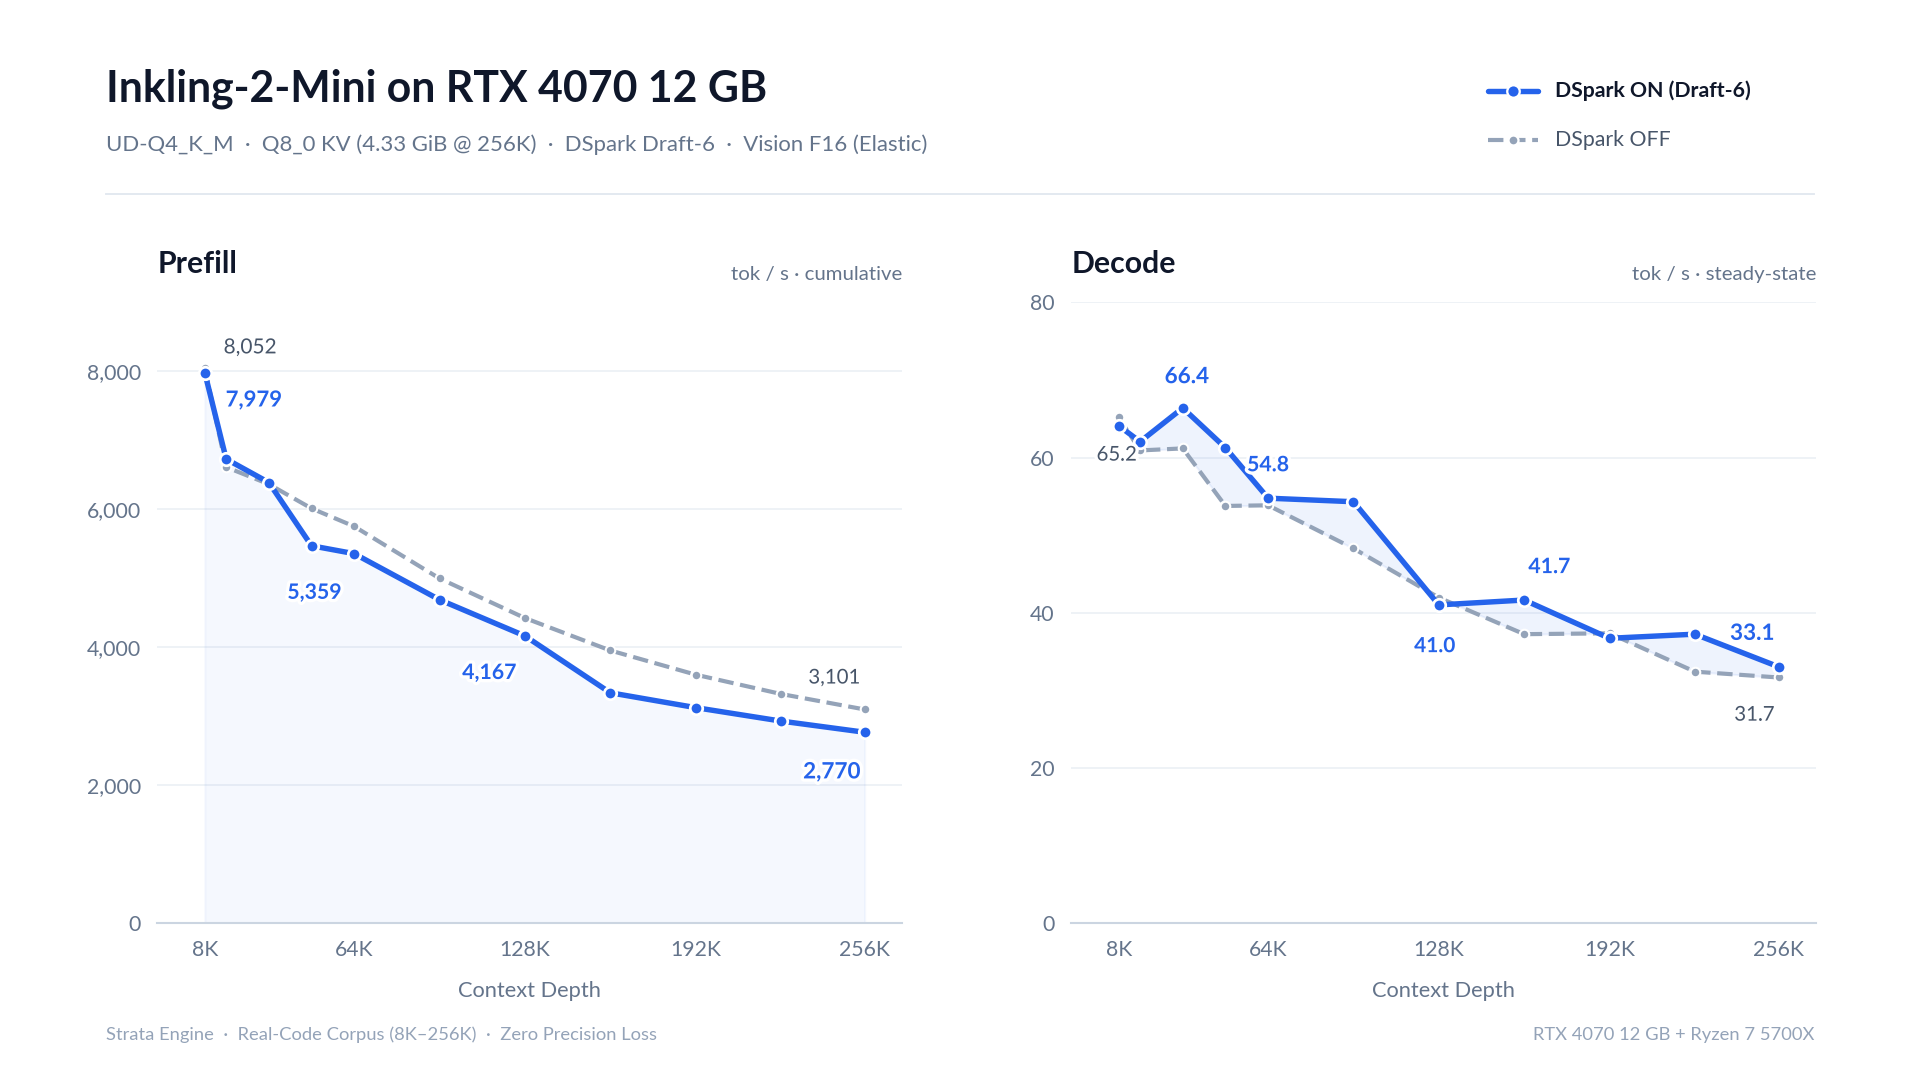
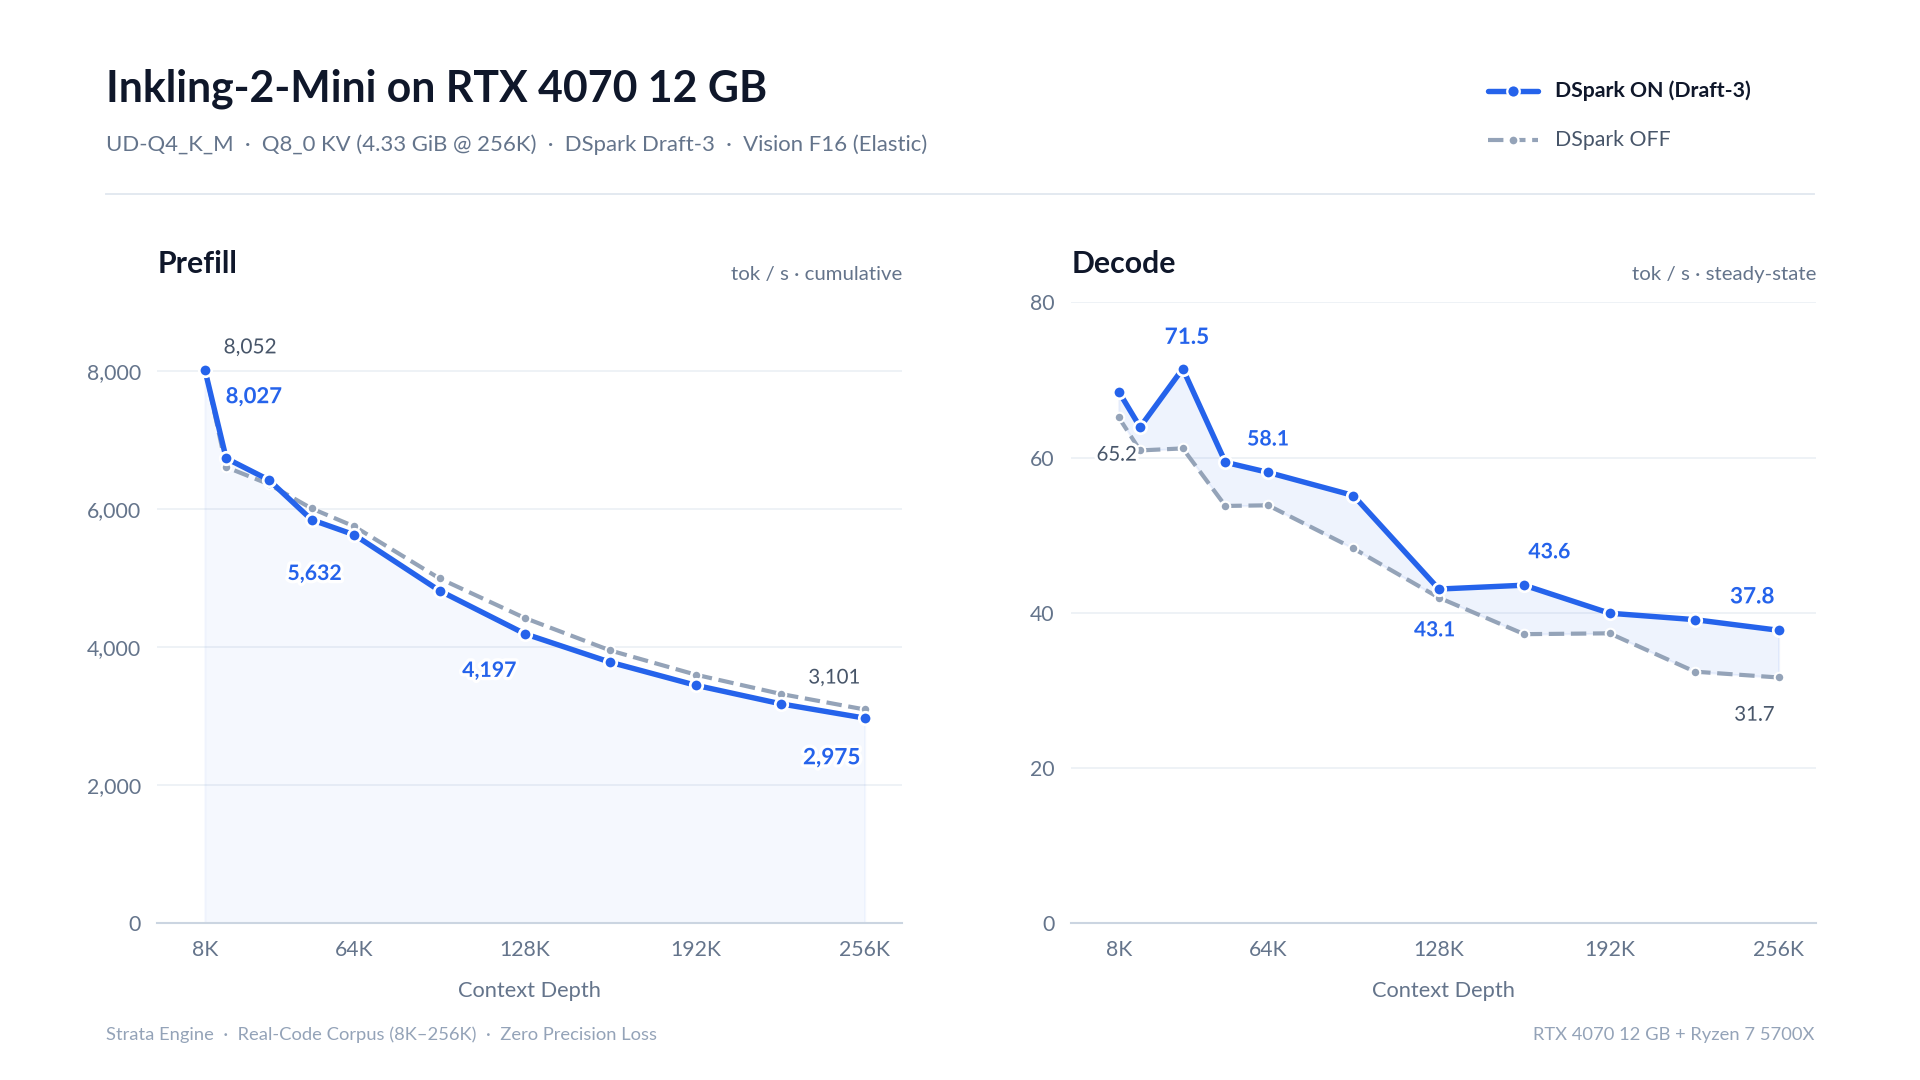
inkling2: gate sparse_hblobs on allow_core_spill & allow prebuild_tier1_hblobs (Draft-3 262K 8,027->2,975 PP / 71.5->37.8 Dec)

diff --git a/README.md b/README.md
@@ -23,8 +23,8 @@ It runs **65K–262K** context on a single **12 GB consumer GPU (RTX 4070)** and
 
 - **Zero-knob automatic tuning (`SM arch × VRAM regime`)** — Choose `--max-context` (and optionally `--draft` for DSpark). The engine inspects the GPU architecture and live free VRAM to select the verified chunk size, KV allocation policy, staging budget, FA2 split-K width, and CUDA Graph mode via [profile_rules.hpp](engine/include/strata/inkling2/profile_rules.hpp).
 - **Zero quantization / precision compromises** — Native `UD-Q4_K_M` weights and `Q8` KV cache (`--kv-q8`), verified for `64/64` greedy token parity across optimization rounds.
-- **Decode Frequency-Prior & Cross-Layer Knapsack Expert Caching** — Seeds VRAM expert slots from measured decode routing frequencies ([inkling2_expert_prior.cuh](engine/src/inkling2/inkling2_expert_prior.cuh)), applies Bayesian eviction/rebalancing during decode, and runs a Phase-Decode Cross-Layer Knapsack (`Core=128` + Outer knapsack at `65K–128K`, global 24-layer knapsack at `160K–256K`), lifting RTX 4070 `262K` decode to **`64.7–68.1 t/s`** (`8K–16K`), **`60.5 t/s`** (`64K`), **`48.2 t/s`** (`160K`), **`42.3 t/s`** (`192K`), and **`36.4–40.2 t/s`** (`256K` ON, **`31.7 t/s`** OFF).
-- **High-K (`--draft-max 6`) Optimization & Low Host RAM Footprint** — Single-pass `Q5_K+Q8_0` AVX2 (`nt=5..8`), balanced 8-thread remainder splits, `MADV_DONTNEED` raw mmap trimming with full-speed pinned PCIe DMA + `16 MiB` double-buffered staging fallback (`copy_h2d_staged`), Verify CUDA Graph capture up to `T<=9`, and confidence-gated extension (`base_k=3`, `tau_ext=0.78`, `tau_cum_ext=0.58`) lift `262K` sampling avg to **`80.8 t/s`** (`dm=3`, prose **`84.6 t/s`**, Japanese **`73.9 t/s`**) and **`74.6 t/s`** (`dm=6`, `+12.5%` vs `66.3 t/s` before), keep `262K` `8K` prefill at **`7,979 t/s`**, and cut peak host RSS by **`-51% to -54%` at `262K`** (`25.3–27.0 → 12.2 GiB`) and **`-57%` at `65K`** (`~26.5 → 11.0 GiB`).
+- **Decode Frequency-Prior & Cross-Layer Knapsack Expert Caching** — Seeds VRAM expert slots from measured decode routing frequencies ([inkling2_expert_prior.cuh](engine/src/inkling2/inkling2_expert_prior.cuh)), applies Bayesian eviction/rebalancing during decode, and runs a Phase-Decode Cross-Layer Knapsack (`Core=128` + Outer knapsack at `65K–128K`, global 24-layer knapsack at `160K–256K`), lifting RTX 4070 `262K` decode to **`68.5–71.5 t/s`** (`8K–32K`), **`58.1 t/s`** (`64K`), **`55.1 t/s`** (`96K`), **`43.6 t/s`** (`160K`), **`40.0 t/s`** (`192K`), and **`37.8 t/s`** (`256K` ON, **`31.7 t/s`** OFF).
+- **Host RAM Reduction (-51% to -57% RSS) & High-K Tailing** — `MADV_DONTNEED` raw mmap trimming with full-speed pinned PCIe DMA + `16 MiB` double-buffered staging fallback (`copy_h2d_staged`), Verify CUDA Graph capture up to `T<=9`, single-pass `Q5_K+Q8_0` AVX2 (`nt=5..8`), and balanced 8-thread remainder splits lift `262K` `Draft-3` sampling avg to **`80.8 t/s`** (prose **`84.6 t/s`**, Japanese **`73.9 t/s`**) and `256K` ladder decode to **`37.8 t/s`** (`2,975 t/s` cumulative prefill), while cutting peak host RSS by **`-51% to -54%` at `262K`** (`25.3–27.0 → 12.2 GiB`) and **`-57%` at `65K`** (`~26.5 → 11.0 GiB`).
 - **Distribution-Preserving Sampling DSpark + 1-Hot PLD** — Deterministic-peak sampling confidence gating (`draft_sampled_confident`) and exact rejection-sampled 1-hot suffix drafting (`PromptSuffixDrafter`) preserve `temperature=1.0` sampling distributions while eliminating Japanese regressions (`65K` sampling: **`68.5–72.9 t/s`** OFF → **`74.6–88.4 t/s`** ON on RTX 4070; **`92.5–93.6 t/s`** OFF → **`104.3–137.6 t/s`** ON on V100 32 GB).
 - **Fast on both 12 GB hybrid and 32 GB full-VRAM GPUs** — On RTX 4070 12 GB, a single `--max-context 262144` run on real C++/CUDA code reaches **`8,052 t/s` prefill** (`3,101 t/s` cumulative @ `256K` DSpark OFF; `7,874 t/s` warm / `8,010 t/s` cool @ `8K`, `2,935 t/s` @ `256K` DSpark ON). On V100 32 GB (GPU 0, ECC Off), all 3,072 experts fit in VRAM up to `819K` with DSpark (`135–167 t/s` decode at `64K–256K`, `109.5 t/s` at `512K`, `89.9 t/s` at `800K`, `192.8 t/s` at `512`).
 - **Drop-in OpenAI & Anthropic API** — Works directly with Claude Code, Codex CLI, OpenCode, and other local coding agents, plus upstream Strata's Qwen3.8-Flash-Next and Qwen3.6-35B-A3B engines.
@@ -57,21 +57,21 @@ Apples-to-apples real tokenized C++/CUDA code context ladder (`--max-context 262
 
 | Context Depth | DSpark ON (`--draft-max 3`) Prefill | DSpark ON Decode | DSpark OFF Prefill | DSpark OFF Decode | GPU Hit (ON / OFF) |
 | ---: | ---: | ---: | ---: | ---: | ---: |
-| `8K` (fresh) | `7,874.3 t/s`¹ | `64.7 t/s` | **`8,051.9 t/s`** | **`65.2 t/s`** | `86.1%` / `86.3%` |
-| `16K` | `6,557.3 t/s` | **`68.1 t/s`** | **`6,612.9 t/s`** | `60.9 t/s` | `86.1%` / `86.4%` |
-| `32K` | `6,276.0 t/s` | `58.1 t/s` | **`6,365.5 t/s`** | **`61.2 t/s`** | `86.0%` / `86.3%` |
-| `48K` | `5,587.6 t/s` | **`56.3 t/s`** | **`6,014.0 t/s`** | `53.8 t/s` | `86.4%` / `86.2%` |
-| `64K` | `5,424.3 t/s` | **`60.5 t/s`** | **`5,753.5 t/s`** | `53.9 t/s` | `86.2%` / `86.2%` |
-| `96K` | `4,694.8 t/s` | **`53.8 t/s`** | **`4,999.2 t/s`** | `48.3 t/s` | `87.1%` / `86.0%` |
-| `128K` | `4,116.0 t/s` | **`43.5 t/s`** | **`4,425.7 t/s`** | `42.0 t/s` | `84.8%` / `85.9%` |
-| `160K` | `3,716.1 t/s` | **`48.2 t/s`** | **`3,955.5 t/s`** | `37.3 t/s` | `77.0%` / `84.7%` |
-| `192K` | `3,396.2 t/s` | **`42.3 t/s`** | **`3,605.1 t/s`** | `37.4 t/s` | `71.6%` / `76.6%` |
-| `224K` | `3,135.4 t/s` | **`35.4 t/s`** | **`3,325.1 t/s`** | `32.4 t/s` | `62.3%` / `71.2%` |
-| `256K` (`261.5K`) | `2,934.6 t/s` | **`36.4 t/s`** | **`3,100.6 t/s`** | `31.7 t/s` | `62.4%` / `71.4%` |
+| `8K` (fresh) | `8,027.1 t/s` | **`68.5 t/s`** | **`8,051.9 t/s`** | `65.2 t/s` | `86.1%` / `86.3%` |
+| `16K` | **`6,740.7 t/s`** | **`63.9 t/s`** | `6,612.9 t/s` | `60.9 t/s` | `86.2%` / `86.4%` |
+| `32K` | **`6,427.2 t/s`** | **`71.5 t/s`** | `6,365.5 t/s` | `61.2 t/s` | `86.1%` / `86.3%` |
+| `48K` | `5,850.6 t/s` | **`59.4 t/s`** | **`6,014.0 t/s`** | `53.8 t/s` | `86.4%` / `86.2%` |
+| `64K` | `5,632.1 t/s` | **`58.1 t/s`** | **`5,753.5 t/s`** | `53.9 t/s` | `86.6%` / `86.2%` |
+| `96K` | `4,821.6 t/s` | **`55.1 t/s`** | **`4,999.2 t/s`** | `48.3 t/s` | `87.2%` / `86.0%` |
+| `128K` | `4,197.1 t/s` | **`43.1 t/s`** | **`4,425.7 t/s`** | `42.0 t/s` | `84.8%` / `85.9%` |
+| `160K` | `3,784.9 t/s` | **`43.6 t/s`** | **`3,955.5 t/s`** | `37.3 t/s` | `77.2%` / `84.7%` |
+| `192K` | `3,451.7 t/s` | **`40.0 t/s`** | **`3,605.1 t/s`** | `37.4 t/s` | `73.2%` / `76.6%` |
+| `224K` | `3,181.9 t/s` | **`39.1 t/s`** | **`3,325.1 t/s`** | `32.4 t/s` | `64.6%` / `71.2%` |
+| `256K` (`261.5K`) | `2,975.4 t/s` | **`37.8 t/s`** | **`3,100.6 t/s`** | `31.7 t/s` | `66.9%` / `71.4%` |
 
-<p><sub>¹ Cool single-turn <code>8K</code> DSpark ON prefill also measures <code>8,009.5 t/s</code> (<code>7,874.3 t/s</code> shown above is the warm back-to-back ladder run).</sub></p>
+<p><sub>Measured on current <code>main</code> after host-pinning and <code>MADV_DONTNEED</code> optimizations (<code>prebuild_tier1_hblobs</code> enabled).</sub></p>
 
-> **Why RTX 4070 `262K` now pushes `68.1 t/s` at `16K`, `60.5 t/s` at `64K`, `48.2 t/s` at `160K`, and `36.4 t/s` at `256K` while Prefill hits `8,052 t/s` at `8K` and `3,101 t/s` at `256K`**: Combining Static Decode Frequency Prior ([inkling2_expert_prior.cuh](engine/src/inkling2/inkling2_expert_prior.cuh)) + Bayesian `rebalance()` + Phase-Decode Cross-Layer Knapsack (`Case A`: `Core=128` + Outer knapsack when Core fits; `Case B`: global 24-layer knapsack under tight `160K–256K` VRAM) with Phase-Split dynamic offload/reload, the 7-step KV ladder, upfront Tier-1/2 pinned host blobs, multi-layer Core borrow (`blk.6..7`), overlapped `aux_st` DSpark + LM head execution, zero-copy AVX2 `nvfp4`/`q5k`/`q8_0` ktile CPU MoE kernels, and Distribution-Preserving Confidence-Gated DSpark + 1-Hot `PLD` lifts decode across every context depth with zero precision loss.
+> **Why RTX 4070 `262K` now pushes `71.5 t/s` at `32K`, `58.1 t/s` at `64K`, `55.1 t/s` at `96K`, and `37.8 t/s` at `256K` while Prefill hits `8,027 t/s` at `8K` and `2,975 t/s` at `256K`**: Combining Static Decode Frequency Prior ([inkling2_expert_prior.cuh](engine/src/inkling2/inkling2_expert_prior.cuh)) + Bayesian `rebalance()` + Phase-Decode Cross-Layer Knapsack (`Case A`: `Core=128` + Outer knapsack when Core fits; `Case B`: global 24-layer knapsack under tight `160K–256K` VRAM) with Phase-Split dynamic offload/reload, the 7-step KV ladder, upfront Tier-1/2 pinned host blobs + `MADV_DONTNEED`, multi-layer Core borrow (`blk.6..7`), overlapped `aux_st` DSpark + LM head execution, zero-copy AVX2 `nvfp4`/`q5k`/`q8_0` ktile CPU MoE kernels, and Distribution-Preserving Confidence-Gated DSpark + 1-Hot `PLD` lifts decode across every context depth with zero precision loss.
 
 ### `65K` Practical Chat & Coding (`Sampling temp=1.0`, RTX 4070 12 GB & Tesla V100 32 GB)
 
@@ -280,7 +280,7 @@ Change `--max-context` and add `--draft ... --draft-max 3` + `--kv-q8` for faste
   --draft /path/to/dspark-Inkling-2-Mini-Q8_0.gguf --draft-max 3 \
   --max-context 131072 --kv-q8 --bench --max-new 128
 
-# RTX 4070 12 GB — 262K max context (8,052–8,076->3,101–3,227 PP/Dec OFF; 68.1–71.3->33.6–36.4 t/s Dec ON)
+# RTX 4070 12 GB — 262K max context (8,027->2,975 PP / 68.5–71.5->37.8 t/s Dec ON)
 ./engine/build-sm89/strata-inkling2 \
   --model /path/to/Inkling-2-Mini-UD-Q4_K_M.gguf \
   --draft /path/to/dspark-Inkling-2-Mini-Q8_0.gguf --draft-max 3 \
